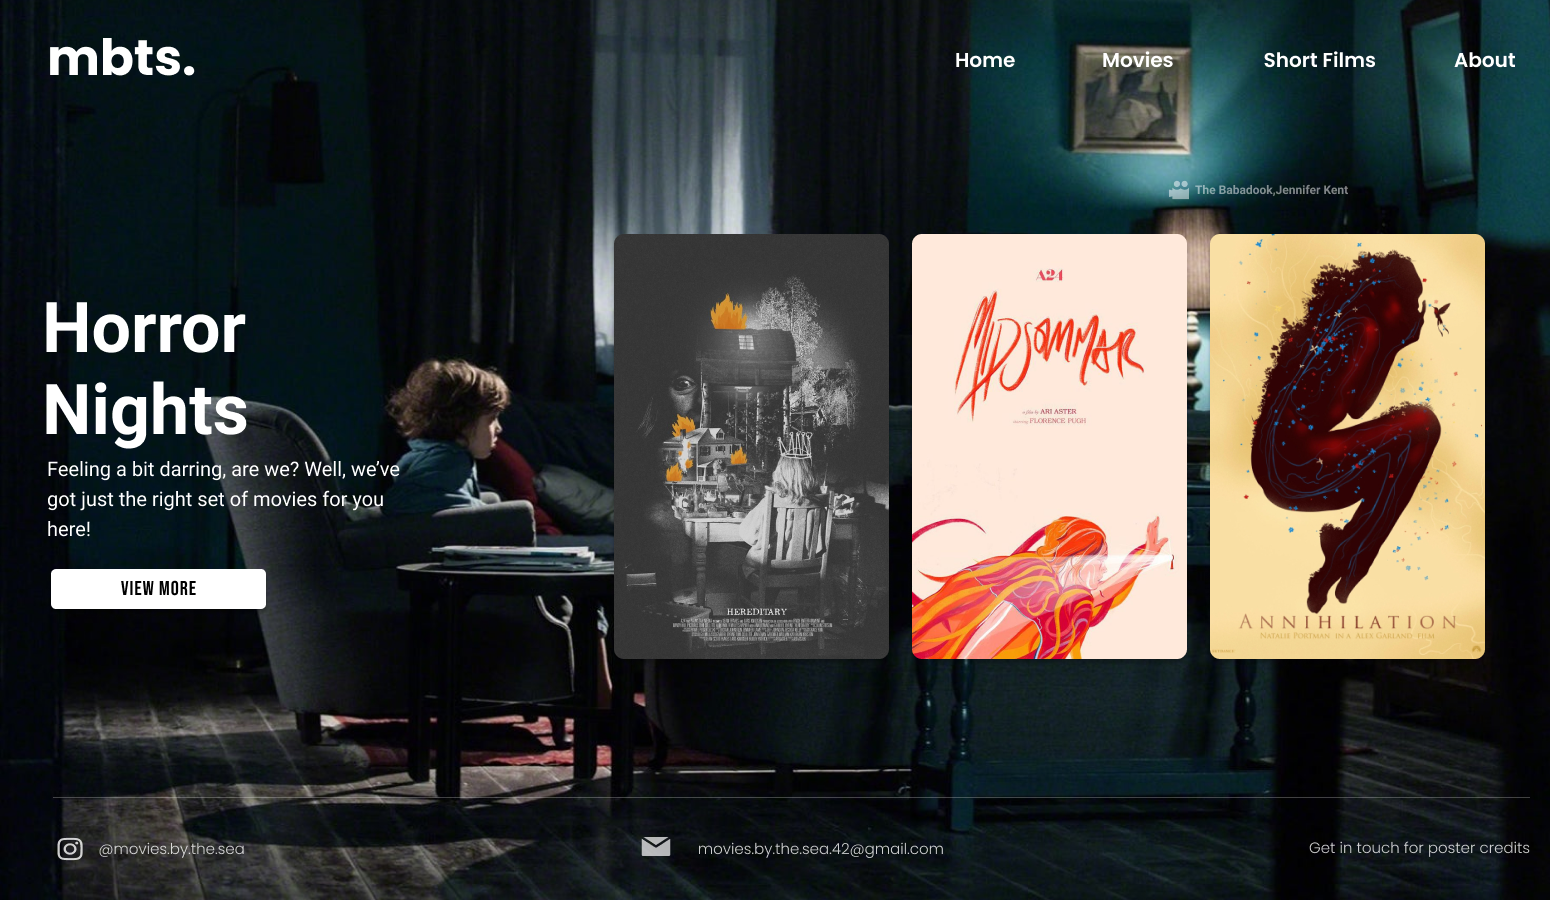
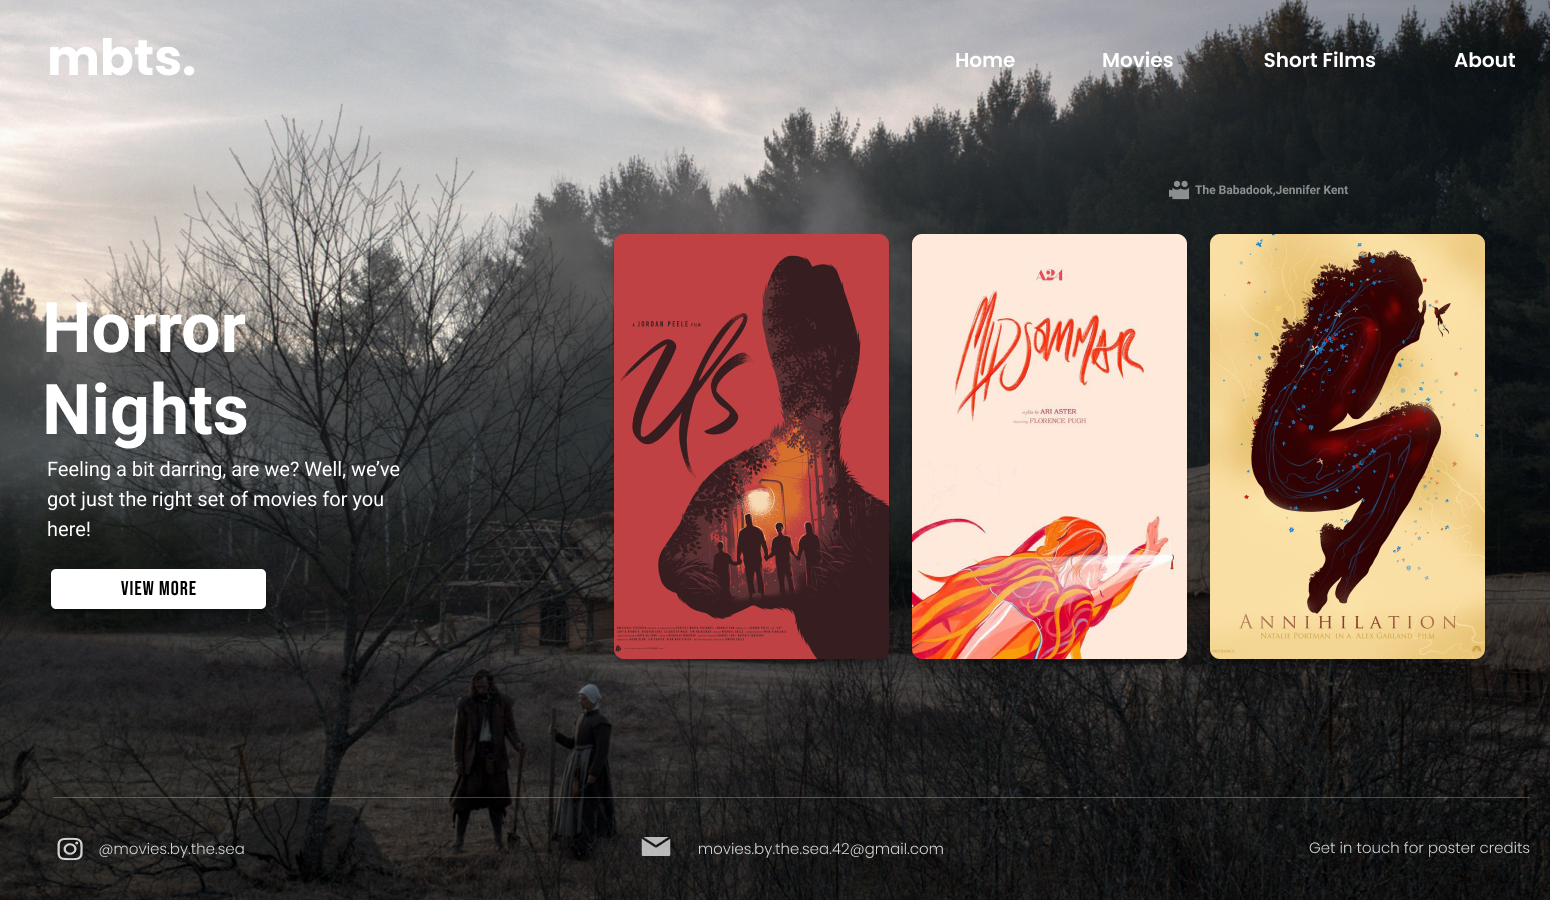
Added screen loader component

diff --git a/src/components/LoadingScreen/LoadingScreen.jsx b/src/components/LoadingScreen/LoadingScreen.jsx
@@ -1,0 +1,34 @@
+import { useState } from 'react';
+
+import img from '../../images/misc/loading.gif';
+import './loading.css';
+
+export default function Loading() {
+
+    const exampleText = [
+        "Writing the first draft of the script",
+        "Preparing the film storyboard",
+        "Assembling the cast and crew",
+        "Deciding the location and arranging logistics",
+        "Setting up the lights and camera to start filming",
+        "Editing footage in post-production"
+    ];
+
+    const [loaderText, setLoaderText] = useState(exampleText[0]);
+    const [textIndex, setTextIndex] = useState(0);
+
+    let textTimer = setTimeout(function(){
+        setTextIndex((textIndex + 1) % exampleText.length);
+        setLoaderText(exampleText[textIndex]);
+    }, 500);
+
+  return (
+    <div className='loading-screen'>
+        <div className="loading-container">
+            <div className="loading-title">Loading...</div>
+            <img src={img} alt="" className="loading-gif" />
+            <div className='loader-text'>{loaderText}</div>
+        </div>
+    </div>
+  )
+}

diff --git a/public/index.html b/public/index.html
@@ -2,14 +2,14 @@
 <html lang="en">
   <head>
     <meta charset="utf-8" />
-    <link rel="icon" href="%PUBLIC_URL%/favicon.ico" />
+    <link rel="icon" href="%PUBLIC_URL%/logo.png" />
     <meta name="viewport" content="width=device-width, initial-scale=1" />
     <meta name="theme-color" content="#000000" />
     <meta
       name="description"
       content="Web site created using create-react-app"
     />
-    <link rel="apple-touch-icon" href="%PUBLIC_URL%/logo192.png" />
+    <link rel="apple-touch-icon" href="%PUBLIC_URL%/logo.png" />
     <!--
       manifest.json provides metadata used when your web app is installed on a
       user's mobile device or desktop. See https://developers.google.com/web/fundamentals/web-app-manifest/
@@ -24,7 +24,7 @@
       work correctly both with client-side routing and a non-root public URL.
       Learn how to configure a non-root public URL by running `npm run build`.
     -->
-    <title>React App</title>
+    <title>Movies By The Sea</title>
   </head>
   <body>
     <noscript>You need to enable JavaScript to run this app.</noscript>

diff --git a/src/components/Page/Horror.jsx b/src/components/Page/Horror.jsx
@@ -1,9 +1,11 @@
 import { useEffect, useState } from 'react'
 
 import {Collection} from '../common/Collection/Collection';
+import { getHorrorFilms } from '../../services/MovieService';
 
 import img from '../../images/collections/horror.jpg';
-import { getHorrorFilms } from '../../services/MovieService';
+import Loading from '../LoadingScreen/LoadingScreen';
+
 
 export default function Horror() {
 
@@ -18,13 +20,13 @@ export default function Horror() {
         })
     }, [])
 
-  return load ? ("Loading...") : (
+  return load ? (<Loading />) : (
     <Collection
     img={img}
     alt={img}
-    bg_info={"Hereditary, Ari Aster"}
+    bg_info={"The VVitch, Robert Eggers"}
     heading={"Horror Nights"}
-    subheading={"Feeling a bit darring, are we? Well, we’ve got just the right set of horror and thriller films for you here!"}
+    subheading={"Feeling a bit darring, are we? Well, we’ve got just the right set of films for you here!"}
     data={films}
     />
   )

diff --git a/src/components/LandingPage/LandingPage.jsx b/src/components/LandingPage/LandingPage.jsx
@@ -4,8 +4,10 @@ import { useEffect, useState } from 'react';
 import {Page} from '../common/Page';
 
 import img from '../../images/landing_page.jpg';
-import './landingPage.css';
 import Modal from '../common/Modal/Modal';
+import Loading from '../LoadingScreen/LoadingScreen';
+
+import './landingPage.css';
 
 export default function LandingPage() {
 
@@ -41,7 +43,7 @@ export default function LandingPage() {
   }, []);
 
 
-  return loading ? ("Loading...") : (
+  return loading ? (<Loading />) : (
     <>
     <Page img={img} alt={latestFilm.poster} info="Portrait of a Lady on Fire, Seline Sciamma">
       <div className="cw-container">

diff --git a/src/components/Page/International.jsx b/src/components/Page/International.jsx
@@ -1,9 +1,11 @@
 import { useEffect, useState } from 'react'
 
 import {Collection} from '../common/Collection/Collection';
+import { getInternationalFilms } from '../../services/MovieService';
 
 import img from '../../images/collections/international.jpg';
-import { getInternationalFilms } from '../../services/MovieService';
+import Loading from '../LoadingScreen/LoadingScreen';
+
 
 export default function International() {
 
@@ -18,7 +20,7 @@ export default function International() {
         })
     }, [])
 
-  return load ? ("Loading...") : (
+  return load ? (<Loading />) : (
     <Collection
     img={img}
     alt={img}

diff --git a/src/components/Page/TrueStory.jsx b/src/components/Page/TrueStory.jsx
@@ -1,9 +1,11 @@
 import { useEffect, useState } from 'react'
 
 import {Collection} from '../common/Collection/Collection';
+import { getTrueStoryFilms } from '../../services/MovieService';
 
 import img from '../../images/collections/true_story.png';
-import { getTrueStoryFilms } from '../../services/MovieService';
+import Loading from '../LoadingScreen/LoadingScreen';
+
 
 export default function TrueStory() {
 
@@ -18,7 +20,7 @@ export default function TrueStory() {
         })
     }, [])
 
-  return load ? ("Loading...") : (
+  return load ? (<Loading />) : (
     <Collection
     img={img}
     alt={img}

diff --git a/src/components/Page/Meta.jsx b/src/components/Page/Meta.jsx
@@ -1,9 +1,11 @@
 import { useEffect, useState } from 'react'
 
 import {Collection} from '../common/Collection/Collection';
+import { getMetaFilms } from '../../services/MovieService';
 
 import img from '../../images/collections/meta.jpg';
-import { getMetaFilms } from '../../services/MovieService';
+import Loading from '../LoadingScreen/LoadingScreen';
+
 
 export default function Horror() {
 
@@ -18,7 +20,7 @@ export default function Horror() {
         })
     }, [])
 
-  return load ? ("Loading...") : (
+  return load ? (<Loading />) : (
     <Collection
     img={img}
     alt={img}

diff --git a/src/components/LoadingScreen/loading.css b/src/components/LoadingScreen/loading.css
@@ -1,0 +1,31 @@
+.loading-screen {
+  background-color: #141414;
+  height: 100vh;
+  width: 100vw;
+  display: flex;
+  justify-content: center;
+  align-items: center;
+}
+
+.loading-container {
+  text-align: center;
+}
+
+.loading-title {
+  font-size: 40px;
+  margin: 20px;
+  font-weight: lighter;
+}
+
+.loading-gif {
+  height: 400px;
+  width: auto;
+  border-radius: 5px;
+  box-shadow: 0 4px 8px 0 rgba(0, 0, 0, 0.2), 0 6px 20px 0 rgba(0, 0, 0, 0.19);
+}
+
+.loader-text {
+  margin-top: 20px;
+  font-size: 20px;
+  color: darkgray;
+}

diff --git a/src/components/Page/BucketList.jsx b/src/components/Page/BucketList.jsx
@@ -4,6 +4,7 @@ import { getMustWatch } from '../../services/MetaInfoService';
 import {Collection} from '../common/Collection/Collection';
 
 import img from '../../images/bucket_list.png';
+import Loading from '../LoadingScreen/LoadingScreen';
 
 export default function BucketList() {
 
@@ -18,7 +19,7 @@ export default function BucketList() {
         })
     }, [])
 
-  return load ? ("Loading...") : (
+  return load ? (<Loading />) : (
     <Collection
     img={img}
     alt={img}
